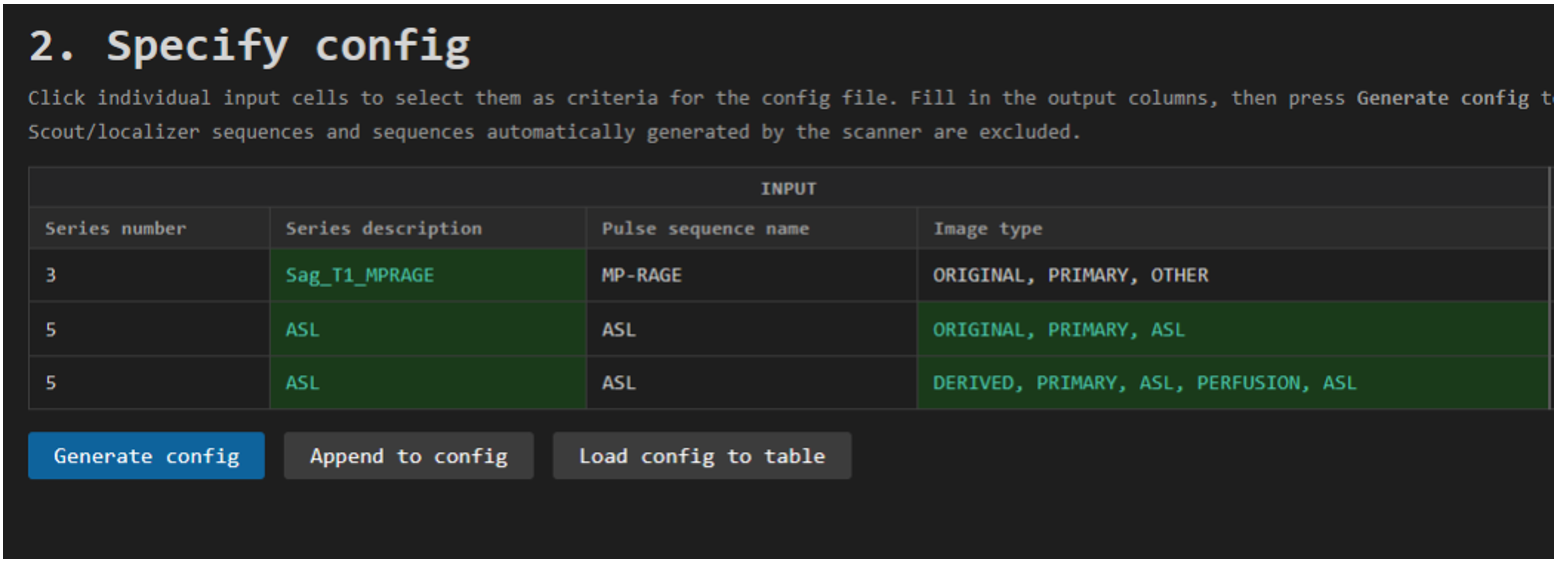
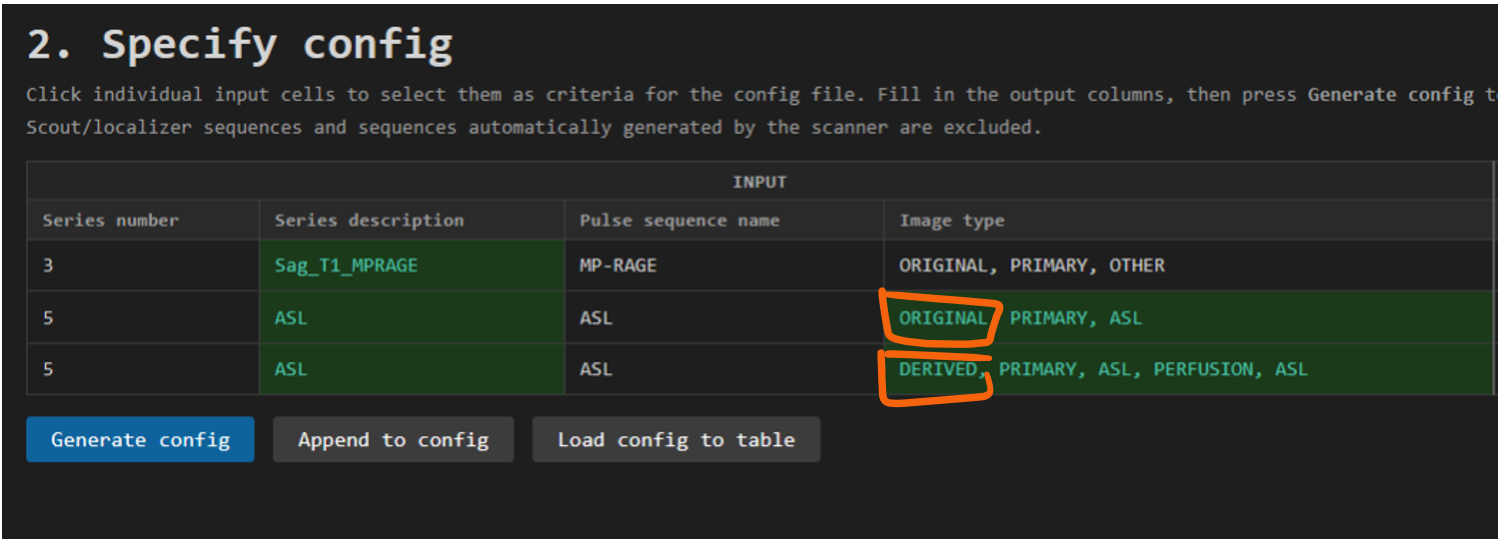
New BIDS manual for MRI

diff --git a/docs/mrc/mrc-bids.md b/docs/mrc/mrc-bids.md
@@ -2,7 +2,7 @@
 title: BIDS at MRC
 ---
 
-The Brain Imaging Data Structure [BIDS](https://bids-specification.readthedocs.io/en/stable/) is a community driven standard for organizing imaging data that simplify data sharing and collaboration. Organizing your data according to BIDS promote traceable and reproducible research and enable the use of common pre-processing pipelines and tools (e.g. [fmriprep](https://fmriprep.org/en/stable/) and [MRIQC](https://mriqc.readthedocs.io/en/latest/)). 
+The Brain Imaging Data Structure [BIDS](https://bids-specification.readthedocs.io/en/stable/) is a community driven standard for organizing imaging data that simplify data sharing and collaboration. Organizing your data according to BIDS promote data sharing and enable the use of common pre-processing pipelines and tools (e.g. [fmriprep](https://fmriprep.org/en/stable/) and [MRIQC](https://mriqc.readthedocs.io/en/latest/)), promoting traceable and reproducible research.
 
 ## Your data at CIR
 If you don't have a project or are starting up data collection at MRC, consult the [road map for projects at CIR](https://ki.se/en/research/research-areas-centres-and-networks/research-centres/centre-for-imaging-research-cir/road-map-for-projects-at-cir) for logical next steps for you to consider. The [data collection page](https://k-cir.github.io/cir-wiki/01_data_collection/) provide context for how and why CIR gather data for your project and how to register your data collection.
@@ -31,9 +31,11 @@ The raw data in your project on SPICE will be structured like this:
 ```
 <br>
 
-CIR offer support in organizing your data as BIDS and provide an simplified interface for using the [dcm2bids](https://unfmontreal.github.io/Dcm2Bids/3.2.0/) in [parallel](https://www.gnu.org/software/parallel/) to effeciently organizing your data on SPICE.
+CIR offer support in organizing your data as BIDS and provide an simplified interface for using the [dcm2bids](https://unfmontreal.github.io/Dcm2Bids/3.2.0/) in [parallel](https://www.gnu.org/software/parallel/) to effeciently organizing your data on SPICE. Essentially, dcm2bids look through your raw data, check if the DICOM metadata match the criteria you specify in a config file and if so, convert those DICOM files to Nifti and organize them in a BIDS format. 
 
-This is done with two repositories, publicily available on Github:
+The dcm2bids config file is a JSON file that specify what criteria to look for in the DICOM metadata for each sequence in your protocol and how to name the output files. Building this config file can be a bit tricky, but CIR offer this helper that extract the relevant DICOM metadata from your data and present it in an interactive table in your browser so you can select what criteria to include in your config file.
+
+This is done with two repositories, publicly available on Github:
 
 <p style="text-align: left; font-size: 36px; font-weight: bold; margin: 0 !important; padding: 0; line-height: 1.2;">
   <a href="https://github.com/k-CIR/bids-utils-mr" target="_blank">1. bids-utils-mr</a>
@@ -58,15 +60,15 @@ This is done with two repositories, publicily available on Github:
 
 # Step by step guide
 
-### 0. Know your data
-Before you start, make sure you have an understanding of the data collected for your project. What sequences do you have in your protocol and how are they organized? What are the tasks included and patient instructions included in the protocol? Do you need to recode your data, e.g. if you have other data that you want BIDS subject and sessions ID to match?
+## 0. Know your data
+Before you start, make sure you have an understanding of the data collected for your project. What sequences do you have in your protocol and how are they organized? What are the tasks and patient instructions included in the protocol? Do you need to recode your data, e.g. if you have other data that you want BIDS subject and session IDs to match?
 
 This approach assume your data is organized as it is delivered from CIR, i.e. on SPICE in `/data/projects/yourproject/raw/mri` - if you have renamed it, moved it, converted or transformed it already - you will run in to problems.
 
-### 1. Get repositories
-Clone the two repositories mentioned above, [bids-utils-mr](https://github.com/k-CIR/bids-utils-mr) to your project folder on SPICE and [serve-mr-bids](https://github.com/k-CIR/serve-mr-bids) to your local computer. If you are new to git and github, plenty of guides are available [online](https://google.com/search?q=git+github+tutorial+how to clone a repository). And there is a brief description on how to set up git with an SSh key for authentication in the [SPICE wiki page](https://k-cir.github.io/cir-wiki/SPICE/02_best_practice/#version-control-with-git).
+## 1. Get repositories
+Clone the two repositories mentioned above, [bids-utils-mr](https://github.com/k-CIR/bids-utils-mr) to your project folder on SPICE and [serve-mr-bids](https://github.com/k-CIR/serve-mr-bids) to your local computer. If you are new to git and github, plenty of guides are available [online](https://google.com/search?q=git+github+tutorial+how to clone a repository). And there is a brief description on how to set up git with an SSH key for authentication in the [SPICE wiki pag: version control with git](https://k-cir.github.io/cir-wiki/SPICE/02_best_practice/#version-control-with-git).
 
-### 2. Connect to SPICE and start the server
+## 2. Connect to SPICE and start the server
 Run the `ssh-connect.sh` script from the `serve-mr-bids` repository on your local computer: `bash ssh-connect.sh` (use cmd or git bash on windows). This will prompt you for your SPICE username, project name and password (if you don't have SSH keys setup). After connection, the script will set up port forwarding for you to be able to access the server running on SPICE from your local computer. On connection it prints a URL, unique to this session, to terminal that you can open in your local browser to access the interface for running dcm2bids on SPICE.
 
 **Note:** the project name must be specified as its path/folder name in `/data/projects`.
@@ -76,7 +78,7 @@ Run the `ssh-connect.sh` script from the `serve-mr-bids` repository on your loca
 What it looks like when user **nikedv** connects to project **capsi** using an SSH key for authentication.
 ///
 
-### 3. Analyze your data
+## 3. Analyze your data
 Open the URL in your local browser. If this is your first time, you will see the window below. You are prompted to select one representative session from your data. This session will be analyzed with the [dcm2bids_helper](https://unfmontreal.github.io/Dcm2Bids/3.2.0/tutorial/first-steps/#dcm2bids_helper-command) function.
 
 This function go through the DICOM files in the selected session and export their unique DICOM meta data to a JSON file for each unique sequence. These are saved in the `bids-utils-mr` folder on SPICE under `dcm2bids_helper/helper`.
@@ -85,19 +87,19 @@ This function go through the DICOM files in the selected session and export thei
 /// caption
 ///
 
-Clicking **Analyze DICOM fields** will start the analysis. Depending on how many and what sequences are in the selected session, this will take up to a couple of minutes to complete. The ouput from `dcm2bids_helper` is printed in the faux terminal window on the page. When the analysis is done, a summary of the most useful fields are printed in a table in the browser so that you can use these to build your config file for dcm2bids. These are:
+Clicking **Analyze DICOM fields** will start the analysis. Depending on how many and what sequences are in the selected session, this will take a couple of minutes to complete. The ouput from `dcm2bids_helper` is printed in the faux terminal window on the page. When the analysis is done, a summary of the most commonly used fields are printed in a table in the browser so that you can use these to build your config file for dcm2bids. These are:
 
-- `Series number`: The order of which this sequence was run in your protocol.
+- `Series number`: The order the sequence was run in your protocol.
 - `Series description`: The name of the sequence in your protocol.
 - `Pulse sequence name`: The name of the sequence as it is saved in the DICOM metadata.
 - `Image type`: A list of keywords describing the sequence, e.g. `ORIGINAL`, `PRIMARY`, `PERFUSION`
 
-You *can* select and analyze different sessions, but easiest for you is to select a session that you know contain all the sequences you are interested in. Check the box `Force dcm2bids_helper` to overwrite the current JSON helper files with new ones.
+You *can* select and analyze different sessions for defining your config file, but easiest for you is to select a session that you know contain all the sequences you are interested in. Check the box `Force dcm2bids_helper` to overwrite the current JSON helper files with new ones.
 
-### 4. Build config file
+## 4. Build config file
 
-**The input** <br>
-When `dcm2bids_helper` is done, the section **2. Specify config** shows up. This section summarize the DICOM fields from the JSON files created by `dcm2bids_helper`. Now, you can use what is in your data to construct a config file for `dcm2bids` so it knows what inputs to look for and what outputs to genarate. This is an important step that can require some detective work, esepecially if you skipped step 0 above, but you only need to do this once.
+<p style="text-align: left; font-size: 22px; font-weight: bold; margin: 0 !important; padding: 0; line-height: 1.2;">The input</p>
+<p style="margin-top: 0;">When <code>dcm2bids_helper</code> is done, the section <b>2. Specify config</b> shows up. This section summarize the DICOM fields from the JSON files created by <code>dcm2bids_helper</code> (i.e. your representative session). Now, you can use what is in your data to construct a config file for <code>dcm2bids</code> so it knows what inputs to look for in your raw data and what outputs to genarate as BIDS. This is an important step that can require some detective work, esepecially if you skipped step 0 above, but you only need to do this once.</p>
 
 If you ran the helper before, this table will show the summary from the last session you analyzed. In the image below is an example of a session that has one structural T1 sequence and an Arterial Spin Labeling (ASL) sequence.
 
@@ -107,19 +109,93 @@ The left columns under **INPUT** are used to define the inputs for `dcm2bids`. T
 /// caption
 ///
 
-Note that the ASL sequence (Series number 5) is split in two entries. Some sequences are split and need to be BIDSified separately. In the case of this ASL sequence, we see in the `Image type` that the first entry is the `ORIGINAL` ASL data and the second entry the `DERIVED` m0 reference scan.
+Note that the ASL sequence (Series number 5) is split in two entries. Some sequences are split and need to be BIDSified separately. In the case of this ASL sequence, we see in the column `Image type` that the first entry is the `ORIGINAL` ASL data and the second entry the `DERIVED` m0 reference scan.
 
 ![Edit this page screenshot]({{ picture_path }}/mr-bids3.png){ width="750" }
 /// caption
 ///
 
-For the T1 its enough to select its unique `Series description` as a criteria for identifying this as a unique sequence in the data. For the ASL sequence, the `Image type` must also be included as a criteria to keep the original ASL data and the m0 reference scan separate in the BIDS output. That is, the combination of criteria must be unique for each row of data that you want in the BIDS output. If not, dcm2bids will not know how to separate them and they will be merged in the BIDS output, or separated by the best guess dcm2bids can make, usually by includig a `run-1` and `run-2` tag.
-
-#### The output
+For the T1 it's enough to select its unique `Series description` as a criteria for identifying this as a unique sequence in the data. For the ASL sequence, the `Image type` must also be selected and included as a criteria to keep the original ASL data and the m0 reference scan separate in the BIDS output. That is, the combination of criteria must be unique for each row of data that you want in the BIDS output. If not, dcm2bids will not know how to separate them and they will be merged in the BIDS output, or separated by the best guess dcm2bids can make, usually by includig a `run-1` and `run-2` tag.
 
 
-### 5. Inspect config file
+<br>
+<p style="text-align: left; font-size: 22px; font-weight: bold; margin: 0 !important; padding: 0; line-height: 1.2;">The output</p>
+<p style="margin-top: 0;">For the output section you MUST specify the <b>datatype </b>and <b>suffix</b> as indicated by an angry asterisk. For MR, datatype is either <code>anat</code>, <code>func</code>, <code>perf</code>, <code>dwi</code> or <code>fmap</code>. See the <a href="https://bids-specification.readthedocs.io/en/stable/common-principles.html#definitions" target="_blank">BIDS documentation</a> for details on these. The suffix is more flexible but MUST match the datatype, generally the suffix specify the type of sequence used to collect the data, e.g. <code>T1w</code> or <code>FLAIR</code> for anatomical/structural data, <code>bold</code> for functional MRI data, and so on. The most common suffixes are available in a drop-down menu, but you can instead specify a specific suffix in free text under <code>Other suffix</code>.</p>
 
-### 6. Check subjects and sessions
+In the image below, you can see we have specified datatype `anat` and suffix `T1w` for the T1 sequence, and datatype `perf` with suffix `asl` for the ASL sequence and `m0scan` for the m0 reference scan. This will result in the T1 sequence being saved as `sub-XXX_ses-XX_T1w.nii.gz` and the ASL sequence as `sub-XXX_ses-XX_asl.nii.gz` and `sub-XXX_ses-XX_m0scan.nii.gz` in the BIDS output.
 
-### 7. Run dcm2bids
+![Edit this page screenshot]({{ picture_path }}/mr-bids4.png){ width="1100" }
+/// caption
+///
+
+The other output fields are optional but can be used to further specify unique output file names. For example, many fMRI protocols include a task that should then be specified. Consult the [BIDS documentation](https://bids-specification.readthedocs.io/en/latest/appendices/entities.html) for the use of different entities, in short:
+
+- Task name `task`: The name of the task performed during the scan, e.g. `rest` for resting state fMRI or `nback` for an n-back working memory task.
+- Acquisition `acq`: The name of the acquisition protocol or equipment used. Useful for example if study is using more than one scanner model.
+- Run `run`: The run number of the sequence. Useful if you have more than one run of the same sequence in your protocol, e.g. two runs of resting state fMRI.
+- Description `desc`: Used to distinguish two files that do not otherwise have a distinguishing entity.
+- Intended for: Is used to specify the intended use of for example a fieldmap sequence, e.g. `fieldmap` or `sbref` for BOLD reference scans. This info is not included in the file name but is included in the JSON sidecar file and can be used by pre-processing pipelines to automatically identify fieldmaps and reference scans for their intended use.
+
+When you have specified a unique input as criteria, and a unique output for the resulting BIDS, for each sequence you want to include you click **Generate config file** to write your specifications to `dcm2bids_config.json` in the `bids-utils-mr` folder on SPICE. This is the config file that will be used as input for `dcm2bids` to organize your data as BIDS. This file will be loaded automatically next time you open this page, but you can also load it manually by clicking **Load config file**.
+
+If you do not have a complete, representative session with all the sequences you want to include in your BIDS output, you can still use **Append to config** to append a new sequence input criteria and output structure to the config file while keeping the existing specifications.
+
+You can also edit the config file manually if you want, in the tab **Config Editor** - but be careful to keep the JSON format.
+
+<p style="text-align: left; font-size: 22px; font-weight: bold; margin: 0 !important; padding: 0; line-height: 1.2;">A complete example</p>
+<p style="margin-top: 0;">The image below show a complete example from a study including 13 different sequences, most included in the standard, recommended <a href="https://k-cir.github.io/cir-wiki/mrc/mrc-cir-protocol/"; target="_blank">CIR protocol</a>.</p> Columns not used here are cropped out of the image to make it easier to read.
+
+![Edit this page screenshot]({{ picture_path }}/mr-bids5.png){ width="1100" }
+/// caption
+An example of a complete, and pretty busy, protocol. Scroll to the bottom of this page to see the output from running this config file.
+///
+
+Note that functional sequences, i.e. with data type `func` specify a task name to distinguish them from each other.
+
+This protocol include 4 `fmap` sequences, intended to be used as reference either for `fmri` or `dwi` sequences, and this is specified with the `Intended for` column. The `desc` column is used to distinguish two epi fieldmaps as the `Intended for` column is **not** included in the file name. Subsequently, these files will be named `sub-012_ses-01_desc-dwi_epi.nii.gz` and `sub-012_ses-01_desc-fmri_epi.nii.gz` in the BIDS output. Without the `desc` field these would both collide on the file name `sub-012_ses-01_epi.nii.gz` in this case.
+
+## 5. Inspect your config file
+You can view and make manual edits to your config file in the tab **Config Editor**. Be careful to keep the JSON format if you make manual edits here. It may be a good idea to keep a backup of your config file, both for book keeping and especially before making manual edits.
+
+![Edit this page screenshot]({{ picture_path }}/mr-bids6.png){ width="650" }
+/// caption
+What the bare bones of the config file look like - a JSON file with a list of dictionaries.
+///
+
+## 6. Check subjects and sessions
+On the final tab **Make BIDS** you first check that paths you are using in your project folder are correct and then click **Discover sessions** to list all the sessions available for you to BIDSify.
+
+![Edit this page screenshot]({{ picture_path }}/mr-bids7.png){ width="650" }
+/// caption
+///
+
+A table will show all subjects and sessions available in your raw data folder. You can specify which subjects and sessions to include in the BIDS output by checking the boxes in the table. Generally CIR will deliver your data in a pseduo-BIDS format but you can rename a subject and session if your raw data is not matching what you need for your BIDS output. Your recode-key will be saved as `session_recode.csv` in the `bids-utils-mr` folder on SPICE for you to keep track of how you have renamed your data.
+
+![Edit this page screenshot]({{ picture_path }}/mr-bids8.png){ width="950" }
+/// caption
+///
+
+In the image above we see two sessions discovered, one subject is saved as an ID and date-time `12345_20231224_133705`, a legacy format for MRI data at MRC. The participant ID is correctly extracted, but doesn't match our other subject and there is no session number.
+
+We simply type in a new subject ID and session number in the table to recode this session to match the BIDS output we want. In this case, we recode the subject to `sub-012` and session to `ses-01`. This is saved in the recode key so that next time we open this page, the same session is recoded to the same subject and session ID. Three digit subject IDs and two digit session numbers, both with leading zero-padding, are recommended.
+
+![Edit this page screenshot]({{ picture_path }}/mr-bids9.png){ width="950" }
+/// caption
+///
+
+## 7. Run dcm2bids
+Finally, you click **Run dcm2bids** to start the processing. This will run `dcm2bids` in parallel on SPICE for all the sessions you have selected. You can select the number of parallell processes, up to 24, in the box for `Max parallel workers`.
+
+Depending on how many sessions you have selected and how many sequences are in your protocol, this can take a while to complete. The output from `dcm2bids` is printed in the faux terminal window on the page so you can follow the progress and check for any errors.
+
+This process is designed to be able to run regularly during your project. No need to wait until you have collected all your data to start organizing it as BIDS. Rather, start early to identify and correct any issues with your config file or mismatch naming in your protocol or raw data.
+
+Your config file and recode key are saved in the `bids-utils-mr` folder in your project folder on SPICE and dcm2bids do not overwrite already existing BIDS files unless you tell it to (by checking `--clobber`).
+
+![Edit this page screenshot]({{ picture_path }}/mr-bids10.png){ width="800" }
+/// caption
+The output from the 13 sequences in the "complete example" config file from above, run on session recoded to `sub-012` and `ses-01`. The output is printed in the faux terminal window on the page so you can follow the progress and check for any errors.
+///
+
+## 8. Celebrate
+Congratulations!! 🎉 You have now organized your data as BIDS and can start using common pre-processing pipelines and tools for your data analysis. You are contributing to making your data more FAIR and reusable for other researchers, and you are saving time for yourself and others in the future by not having to re-invent the wheel for organizing your data for every new project. You can also share your config file with other researchers at CIR to further promote efficient data handling and sharing of best practices between projects.